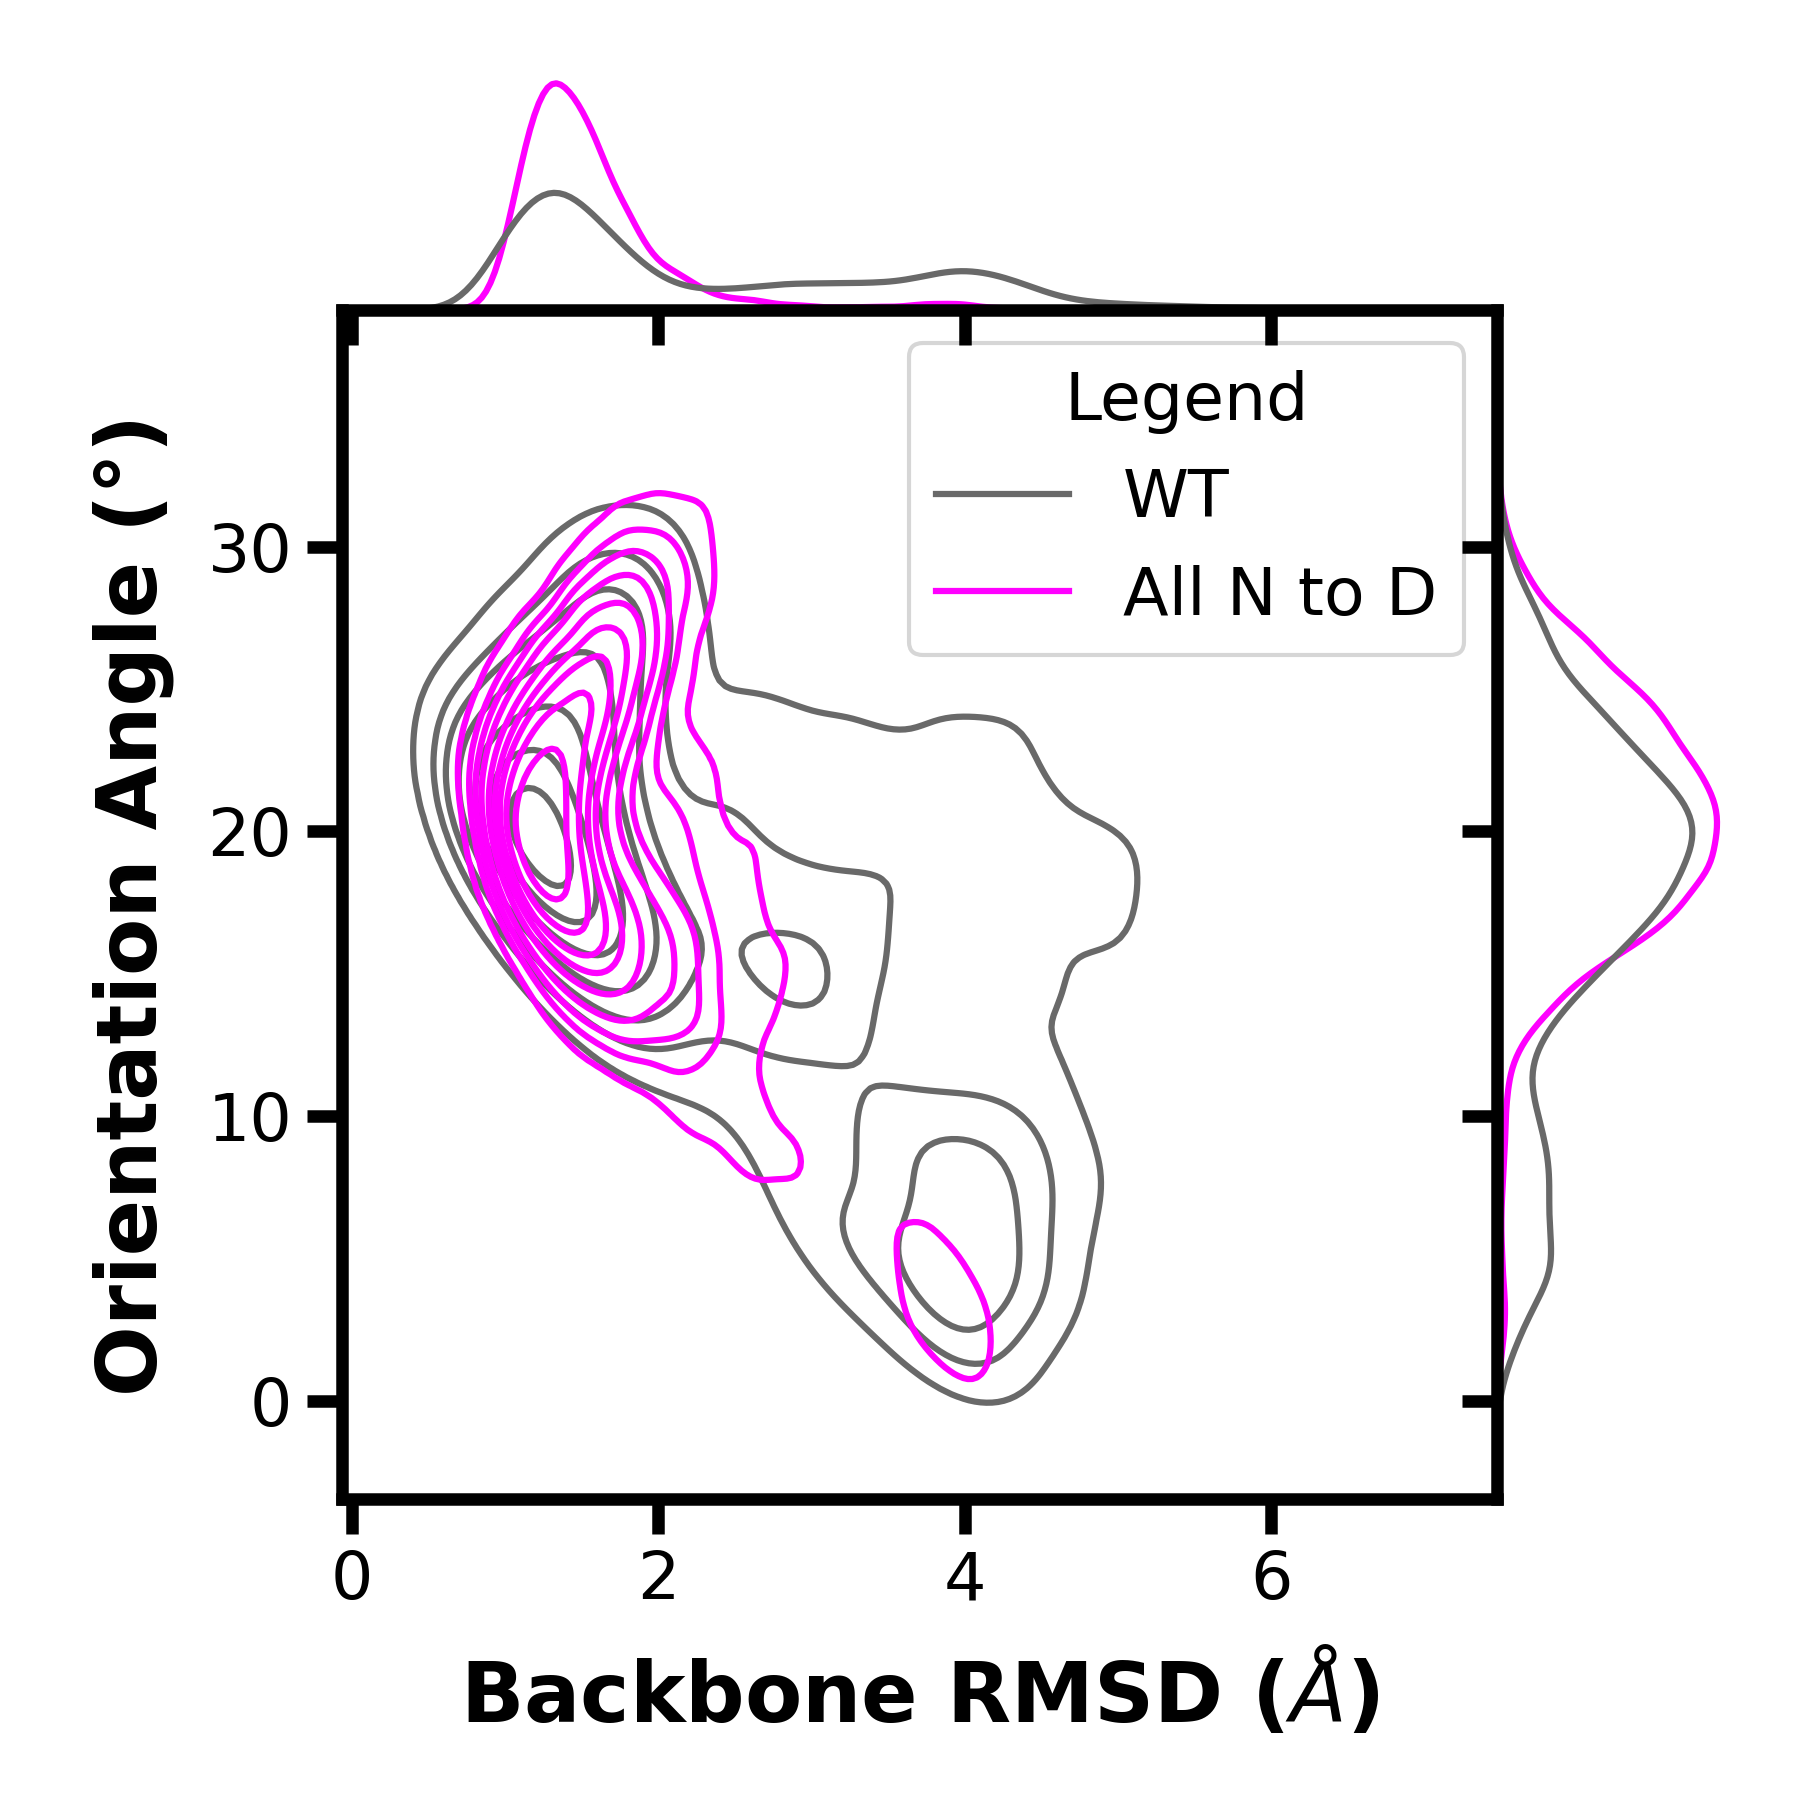
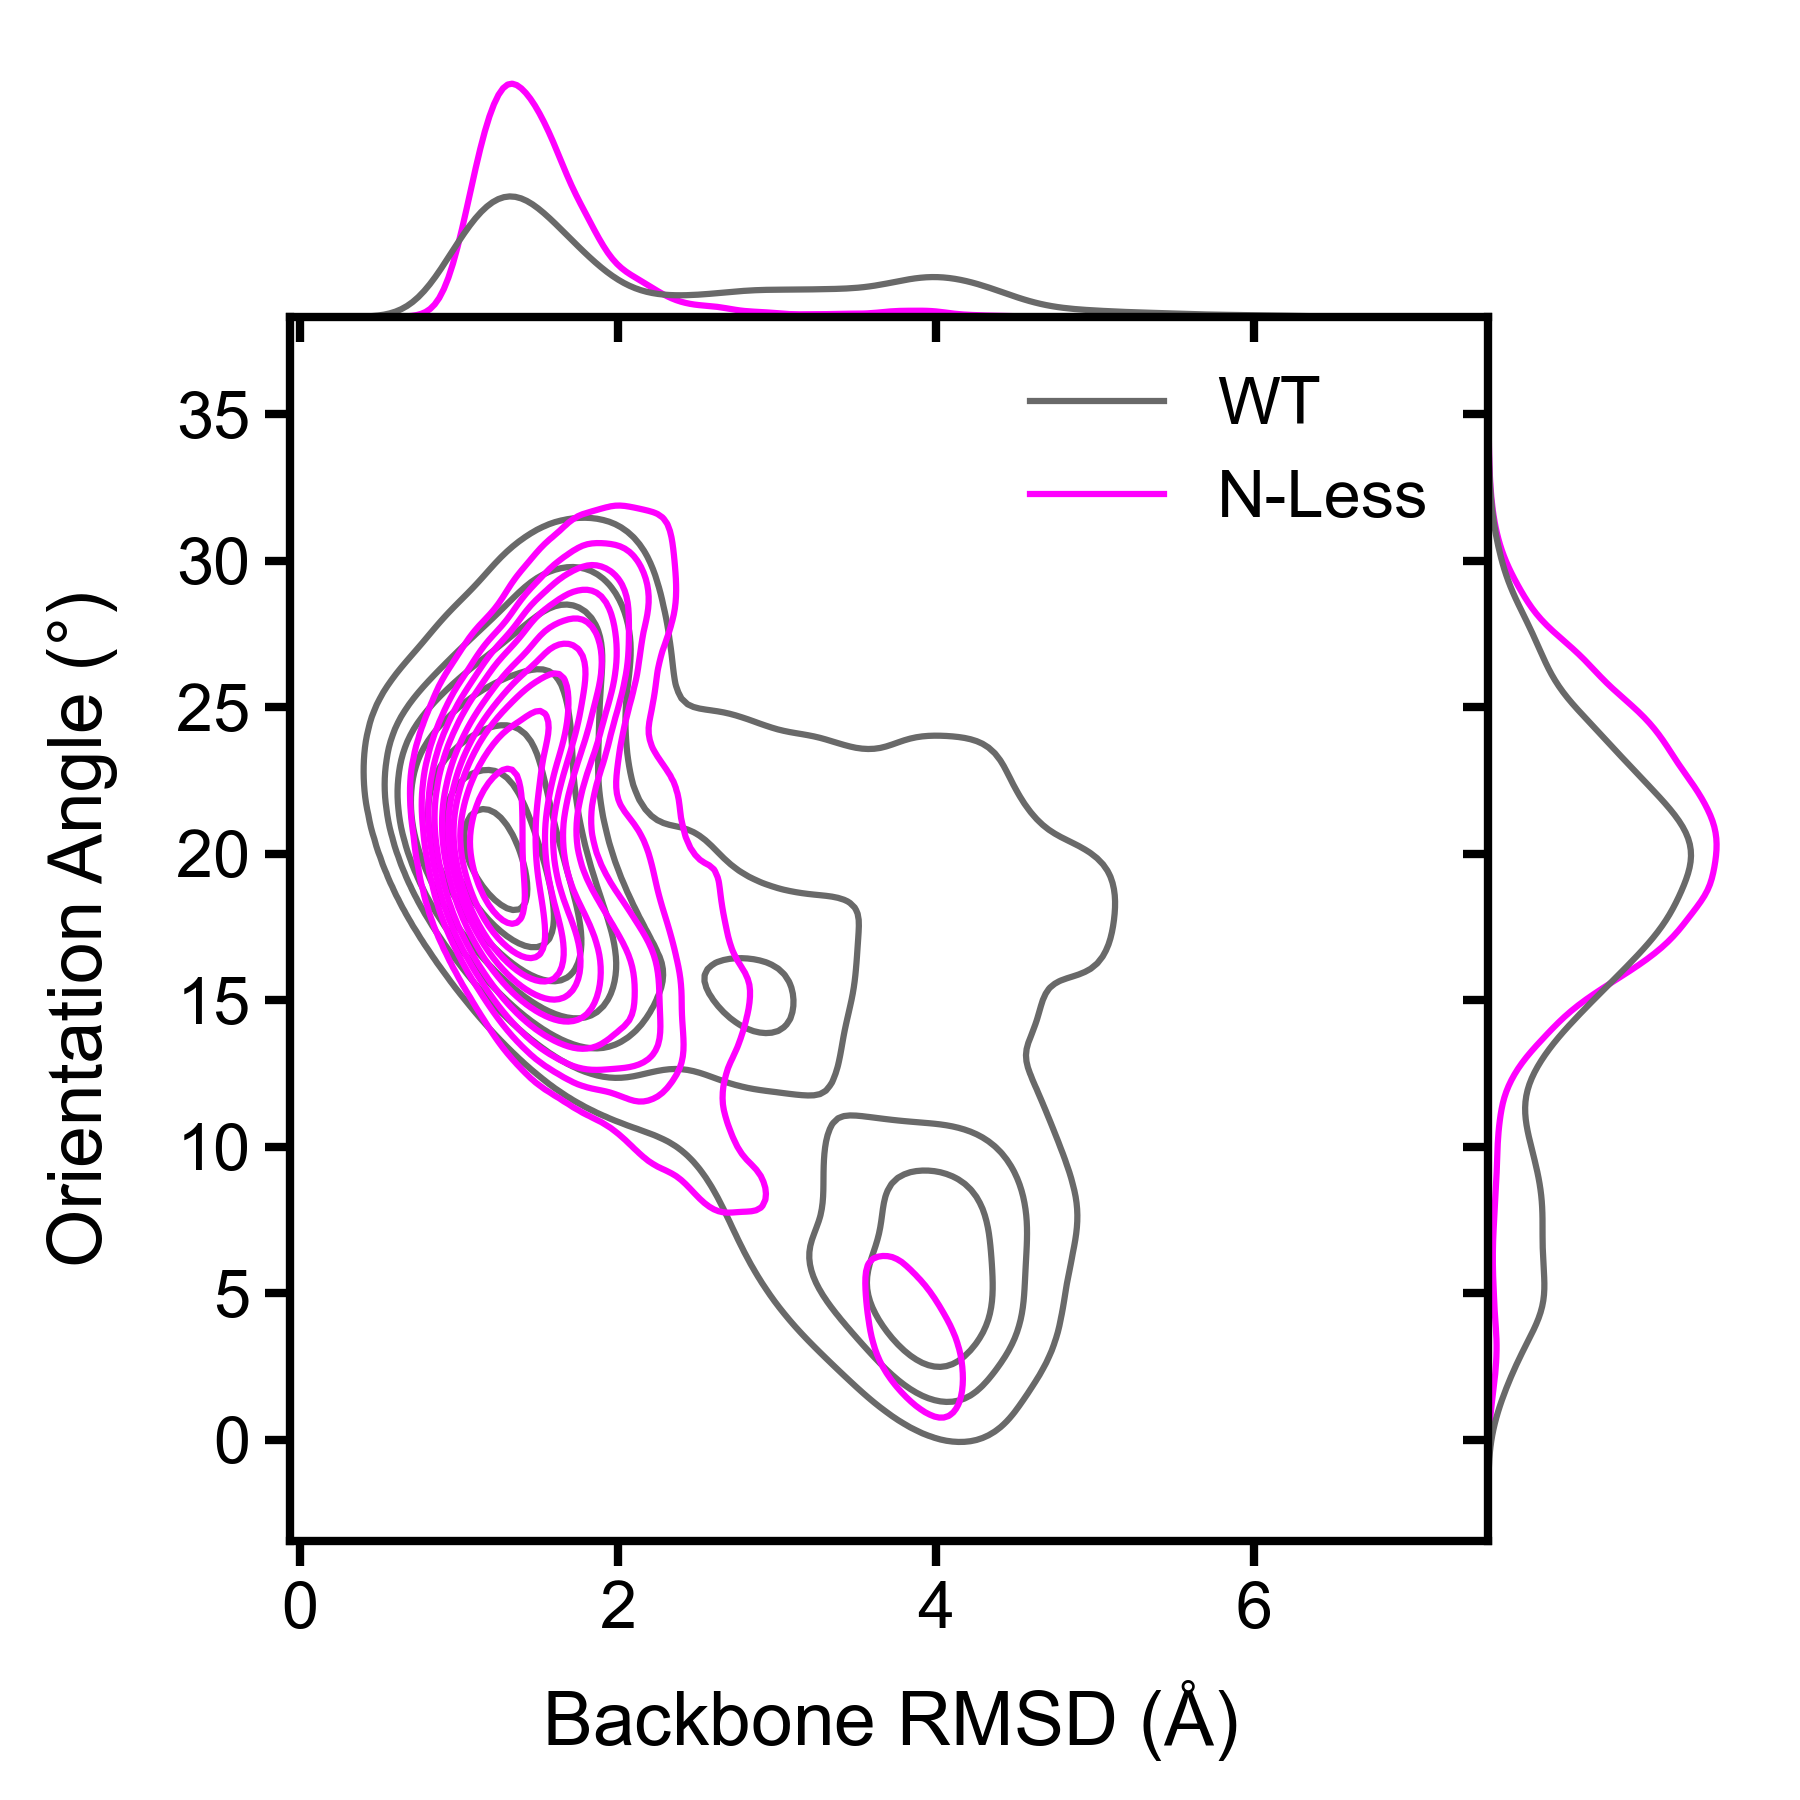
updated figures and easier way to make them

Changed region(s): [[0.0311, 0.0311, 0.9644, 0.9644], [0.4978, 0.3111, 0.5911, 0.3422], [0.0311, 0.2489, 0.0622, 0.28]]

diff --git a/data_plot_1D.py b/data_plot_1D.py
@@ -15,7 +15,7 @@ import scipy.stats
 import pandas as pd
 
 # plt.rcParams['figure.figsize']= (10,6)
-plt.rcParams.update({'font.size': 18})
+plt.rcParams.update({'font.size': 16})
 plt.rcParams["font.family"]="Sans-serif"
 plt.rcParams['font.sans-serif'] = 'Arial'
 plt.rcParams['mathtext.default'] = 'regular'
@@ -230,14 +230,12 @@ def multi_rep_data(sys="nalld", dataname="o_angle.dat", replicates=(0,25)):
 # dist_plot(wt, xlim, ax=ax)
 # dist_plot(nless, xlim, ax=ax)
 
-def joint_plot():
+def joint_plot(og_gdc="wt", alt_gdc="nalld", alt_gdc_label="N-Less"):
     # joint plot
     import seaborn as sns
     import pandas as pd
-    og_gdc = "wt"
-    alt_gdc = "nalld"
     replicates = (0,25)
-    replicates = (0,1)
+    #replicates = (0,1)
     wt1 = multi_rep_data(og_gdc, "rmsd_bb.dat", replicates=replicates)
     wt2 = multi_rep_data(og_gdc, "o_angle.dat", replicates=replicates)
     nless1 = multi_rep_data(alt_gdc, "rmsd_bb.dat", replicates=replicates)
@@ -249,20 +247,19 @@ def joint_plot():
     full_df = full_df.T
     # set legend col for labeling
     full_df["Legend"] = ["WT" for i in range(0, np.shape(wt_df)[1])] + \
-                        ["All N to D" for i in range(0, np.shape(nless_df)[1])]
+                        [alt_gdc_label for i in range(0, np.shape(nless_df)[1])]
     #print(full_df)
     # space is for magin plot padding
     g = sns.JointGrid(x=0, y=1, data=full_df, hue="Legend", palette=["dimgrey", "magenta"], space=0)
     g.plot_joint(sns.kdeplot, fill=False)
     g.plot_marginals(sns.kdeplot, fill=False)
     #g.set_axis_labels(xlabel="Backbone RMSD ($\AA$)", ylabel="Orientation Angle (°)")
-    g.ax_joint.set_xlabel("Backbone RMSD ($\AA$)", labelpad=9.5)
+    g.ax_joint.set_xlabel("Backbone RMSD ($\AA$)", labelpad=9)
     g.ax_joint.set_ylabel("Orientation Angle (°)", labelpad=14)
     #sns.move_legend(g, "upper left", bbox_to_anchor=(.55, .45), title="")
     #plt.legend(bbox_to_anchor=(1.05, 1), loc=2, borderaxespad=0.)
     # move the legend in ax_joint
     sns.move_legend(g.ax_joint, "upper right", title='', frameon=False)
-joint_plot()
 
 # RoG
 #plot_avg_and_stdev("radgyr.dat", (15.5,18.5), "RoG ($\AA$)", replicates=(1,2))
@@ -295,6 +292,11 @@ joint_plot()
 # plot_multiple_reps("o_angle.dat", (0,35), "Orientation Angle (°)", replicates=(0,5), 
 #                     window=10, time_units=10**3, linewidth=2, dist=(0,0.2,0.02))
 
-plt.show()
-#plt.savefig("figures/joint_25us_wt_allLb3d.png", dpi=300, transparent=True)
-#plt.savefig("figures/joint_25us_wt_Nless.png", dpi=300, transparent=True)
+joint_plot()
+plt.savefig("figures/joint_25us_wt_Nless.png", dpi=300, transparent=True)
+joint_plot(alt_gdc="allb3d", alt_gdc_label="L-iso-ASP")
+plt.savefig("figures/joint_25us_wt_allLb3d.png", dpi=300, transparent=True)
+joint_plot(alt_gdc="allDb3d", alt_gdc_label="D-iso-ASP")
+plt.savefig("figures/joint_25us_wt_allDb3d.png", dpi=300, transparent=True)
+
+#plt.show()
